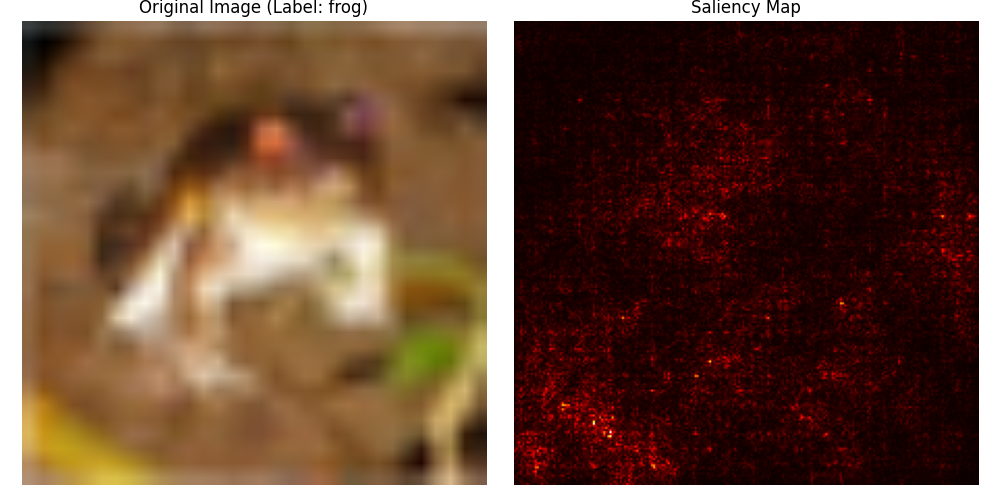
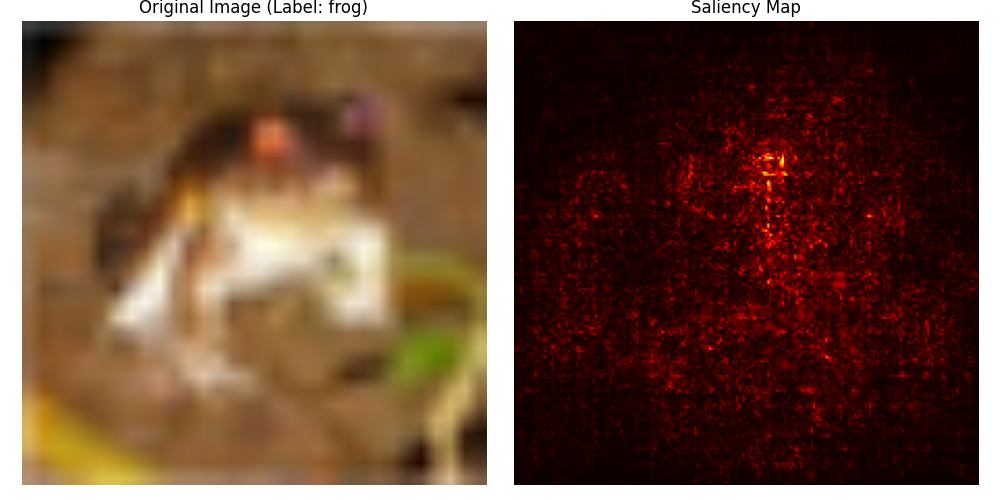
updates

Changed region(s): [[0.496, 0.03, 0.992, 0.99], [0.93, 0.12, 0.961, 0.15], [0.713, 0.12, 0.744, 0.15]]

diff --git a/image_generations/generate_images.py b/image_generations/generate_images.py
@@ -13,10 +13,16 @@ from lime.lime_tabular import LimeTabularExplainer
 import shap
 
 # TensorFlow/Keras imports
+import tensorflow as tf
 from tensorflow.keras.models import Sequential
 from tensorflow.keras.layers import Dense, Conv2D, Flatten
 from tensorflow.keras.datasets import mnist
 from tensorflow.keras.utils import to_categorical
+# Suppress TensorFlow warnings
+tf.get_logger().setLevel('ERROR')
+# Suppress TensorFlow oneDNN warnings
+os.environ['TF_CPP_MIN_LOG_LEVEL'] = '2'
+os.environ['TF_ENABLE_ONEDNN_OPTS'] = '0'
 
 # PyTorch imports
 import torch
@@ -31,6 +37,7 @@ from transformers import pipeline
 
 # PIL for image handling
 from PIL import Image
+
 
 
 from tqdm import tqdm  # Import tqdm for progress tracking
@@ -238,7 +245,8 @@ def plot_cnn_feature_maps():
 
     # Define a simple CNN
     model = Sequential([
-        Conv2D(8, (3, 3), activation='relu', input_shape=(28, 28, 1)),
+        tf.keras.Input(shape=(28, 28, 1)),
+        Conv2D(8, (3, 3), activation='relu'),
         Flatten(),
         Dense(10, activation='softmax')
     ])
@@ -319,7 +327,6 @@ def plot_saliency_map():
     Raises:
         FileNotFoundError: If the "images" directory does not exist.
     """
-
     # Load CIFAR-10 dataset using PyTorch utilities
     cifar10_train = torch.utils.data.DataLoader(
         torchvision.datasets.CIFAR10(root='./data', train=True, download=True, transform=transforms.ToTensor()),
@@ -328,6 +335,8 @@ def plot_saliency_map():
 
     # Get the first image and label from the dataset
     sample_image, y_train = next(iter(cifar10_train))
+    sample_image = sample_image[0].unsqueeze(0)  # Select the first image and add batch dimension
+    y_train = y_train[0]  # Select the corresponding label
 
     # Define preprocessing transformations
     preprocess = transforms.Compose([
@@ -335,14 +344,15 @@ def plot_saliency_map():
         transforms.Normalize(mean=[0.5, 0.5, 0.5], std=[0.5, 0.5, 0.5])
     ])
 
-    # Convert the sample image to a PIL Image and preprocess it
-    sample_image = preprocess(sample_image.squeeze(0)).unsqueeze(0)
-    # Define a pre-trained model (e.g., ResNet18) and fine-tune it on CIFAR-10
+    # Preprocess the sample image
+    sample_image = preprocess(sample_image)
 
+    # Define a pre-trained model (e.g., ResNet18) and fine-tune it on CIFAR-10
     model = models.resnet18(weights=ResNet18_Weights.IMAGENET1K_V1)
     model.fc = torch.nn.Linear(model.fc.in_features, 10)  # Adjust the final layer for CIFAR-10 (10 classes)
     model = model.eval()  # Set model to evaluation mode
-
+    device = torch.device("cuda" if torch.cuda.is_available() else "cpu")
+    print("Using device:", device)
     # Check if the fine-tuned weights exist
     if not os.path.exists('cifar10_resnet18.pth'):
         # Fine-tune the model on CIFAR-10
@@ -350,15 +360,14 @@ def plot_saliency_map():
         optimizer = torch.optim.Adam(model.parameters(), lr=0.001)
 
         # Training loop (quick fine-tuning for a few epochs)
-        device = torch.device("cuda" if torch.cuda.is_available() else "cpu")
-        print("Using device:", device)
+        
         model = model.to(device)  # Move model to GPU if available
         criterion = criterion.to(device)  # Move criterion to GPU if available
 
-        for epoch in range(1):  # Only 1 epochs for quick fine-tuning
+        for epoch in range(1):  # Only 1 epoch for quick fine-tuning
             model.train()
             epoch_loss = 0.0
-            with tqdm(cifar10_train, desc=f"Epoch {epoch + 1}/5", unit="batch") as progress_bar:
+            with tqdm(cifar10_train, desc=f"Epoch {epoch + 1}/x", unit="batch") as progress_bar:
                 for images, labels in progress_bar:
                     images = preprocess(images).to(device)  # Preprocess and move to device
                     labels = labels.to(device)
@@ -375,25 +384,23 @@ def plot_saliency_map():
     # Load the fine-tuned weights
     model.load_state_dict(torch.load('cifar10_resnet18.pth'))
 
-    # Convert labels to PyTorch tensor
-    y_train = torch.tensor(y_train, dtype=torch.long).squeeze()
-
     # Compute saliency map using Captum
     saliency = Saliency(model)
     sample_image.requires_grad_()  # Enable gradients for the input
+    sample_image = sample_image.to(device)  # Move to device
+    model = model.to(device)  # Ensure model is on the same device as the input
     output = model(sample_image)
-    target_class = torch.argmax(
-        output, dim=1
-    )
-    saliency_map = saliency.attribute(sample_image, target=target_class.item()).squeeze().detach().numpy()
+    target_class = torch.argmax(output, dim=1)
+    saliency_map = saliency.attribute(sample_image, target=target_class.item()).squeeze().cpu().detach().numpy()
 
     # Plot the image and saliency map side by side
     fig, axes = plt.subplots(1, 2, figsize=(10, 5))
 
     # Original image
-    axes[0].imshow(sample_image.squeeze().permute(1, 2, 0).detach().numpy() * 0.5 + 0.5)  # Denormalize for visualization
-    axes[0].set_title(f"Original Image (Label: {cifar10_train.dataset.classes[y_train.item()]})")
+    axes[0].imshow(sample_image[0].permute(1, 2, 0).cpu().detach().numpy() * 0.5 + 0.5)  # Denormalize for visualization
+    axes[0].set_title(f"Original Image (Label: {cifar10_train.dataset.classes[y_train]})")
     axes[0].axis('off')
+
     # Saliency map
     axes[1].imshow(saliency_map.mean(axis=0), cmap='hot')
     axes[1].set_title("Saliency Map")
@@ -406,16 +413,16 @@ def plot_saliency_map():
 # 9. Integrated Gradients with Captum
 def plot_integrated_gradients():
     """
-    Generates and saves an Integrated Gradients visualization for a CNN trained on the MNIST dataset.
+    Generates and saves an Integrated Gradients visualization for a CNN trained on the CIFAR-10 dataset.
 
-    This function trains a simple CNN on the MNIST dataset, computes the Integrated Gradients
+    This function uses a pre-trained ResNet18 model fine-tuned on CIFAR-10, computes the Integrated Gradients
     for a sample image, and saves the visualization as "images/integrated_gradients.png".
 
     Note:
         - The "images" directory must exist prior to saving the plot.
 
     Dependencies:
-        - TensorFlow/Keras
+        - PyTorch
         - Captum
         - Matplotlib
 
@@ -430,6 +437,8 @@ def plot_integrated_gradients():
 
     # Get the first image and label from the dataset
     sample_image, y_train = next(iter(cifar10_train))
+    sample_image = sample_image[0].unsqueeze(0)  # Select the first image and add batch dimension
+    y_train = y_train[0]  # Select the corresponding label
 
     # Define preprocessing transformations
     preprocess = transforms.Compose([
@@ -437,14 +446,16 @@ def plot_integrated_gradients():
         transforms.Normalize(mean=[0.5, 0.5, 0.5], std=[0.5, 0.5, 0.5])
     ])
 
-    # Convert the sample image to a PIL Image and preprocess it
-    sample_image = preprocess(sample_image.squeeze(0)).unsqueeze(0)
+    # Preprocess the sample image
+    sample_image = preprocess(sample_image)
 
     # Define a pre-trained model (e.g., ResNet18) and fine-tune it on CIFAR-10
     model = models.resnet18(weights=ResNet18_Weights.IMAGENET1K_V1)
     model.fc = torch.nn.Linear(model.fc.in_features, 10)  # Adjust the final layer for CIFAR-10 (10 classes)
     model = model.eval()  # Set model to evaluation mode
-
+    
+    device = torch.device("cuda" if torch.cuda.is_available() else "cpu")
+    print("Using device:", device)
     # Check if the fine-tuned weights exist
     if not os.path.exists('cifar10_resnet18.pth'):
         # Fine-tune the model on CIFAR-10
@@ -452,15 +463,13 @@ def plot_integrated_gradients():
         optimizer = torch.optim.Adam(model.parameters(), lr=0.001)
 
         # Training loop (quick fine-tuning for a few epochs)
-        device = torch.device("cuda" if torch.cuda.is_available() else "cpu")
-        print("Using device:", device)
         model = model.to(device)  # Move model to GPU if available
         criterion = criterion.to(device)  # Move criterion to GPU if available
 
-        for epoch in range(1):  # Only 1 epochs for quick fine-tuning
+        for epoch in range(1):  # Only 1 epoch for quick fine-tuning
             model.train()
             epoch_loss = 0.0
-            with tqdm(cifar10_train, desc=f"Epoch {epoch + 1}/5", unit="batch") as progress_bar:
+            with tqdm(cifar10_train, desc=f"Epoch {epoch + 1}/x", unit="batch") as progress_bar:
                 for images, labels in progress_bar:
                     images = preprocess(images).to(device)  # Preprocess and move to device
                     labels = labels.to(device)
@@ -477,22 +486,21 @@ def plot_integrated_gradients():
     # Load the fine-tuned weights
     model.load_state_dict(torch.load('cifar10_resnet18.pth'))
 
-    # Convert labels to PyTorch tensor
-    y_train = torch.tensor(y_train, dtype=torch.long).squeeze()
-
     # Compute Integrated Gradients using Captum
     ig = IntegratedGradients(model)
     sample_image.requires_grad_()  # Enable gradients for the input
+    sample_image = sample_image.to(device)  # Move to device
+    model = model.to(device)  # Ensure model is on the same device as the input
     output = model(sample_image)
     target_class = torch.argmax(output, dim=1)
-    attributions = ig.attribute(sample_image, target=target_class.item(), n_steps=50).squeeze().detach().numpy()
+    attributions = ig.attribute(sample_image, target=target_class.item(), n_steps=50).squeeze().cpu().detach().numpy()
 
     # Plot the original image and attributions
     fig, axes = plt.subplots(1, 2, figsize=(10, 5))
 
     # Original image
-    axes[0].imshow(sample_image.squeeze().permute(1, 2, 0).detach().numpy() * 0.5 + 0.5)  # Denormalize for visualization
-    axes[0].set_title(f"Original Image (Label: {cifar10_train.dataset.classes[y_train.item()]})")
+    axes[0].imshow(sample_image[0].permute(1, 2, 0).cpu().detach().numpy() * 0.5 + 0.5)  # Denormalize for visualization
+    axes[0].set_title(f"Original Image (Label: {cifar10_train.dataset.classes[y_train]})")
     axes[0].axis('off')
 
     # Integrated Gradients
